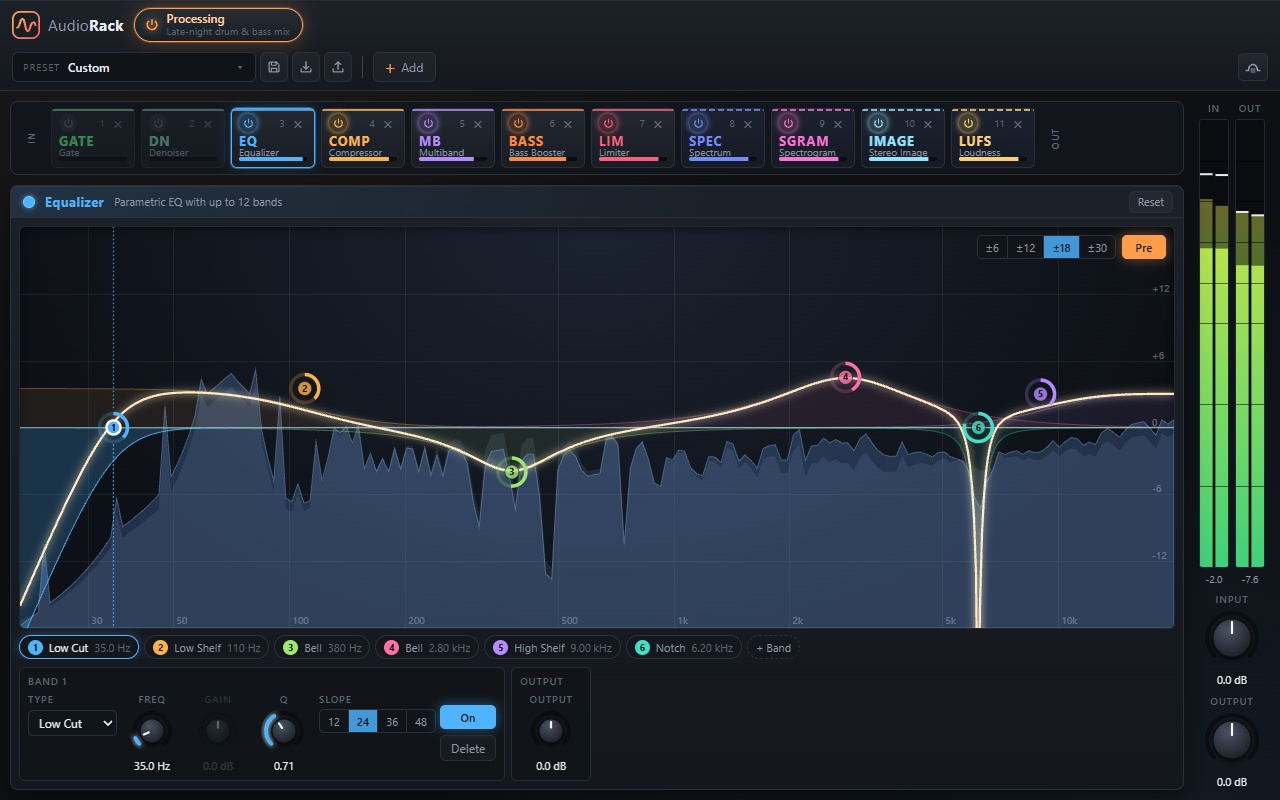
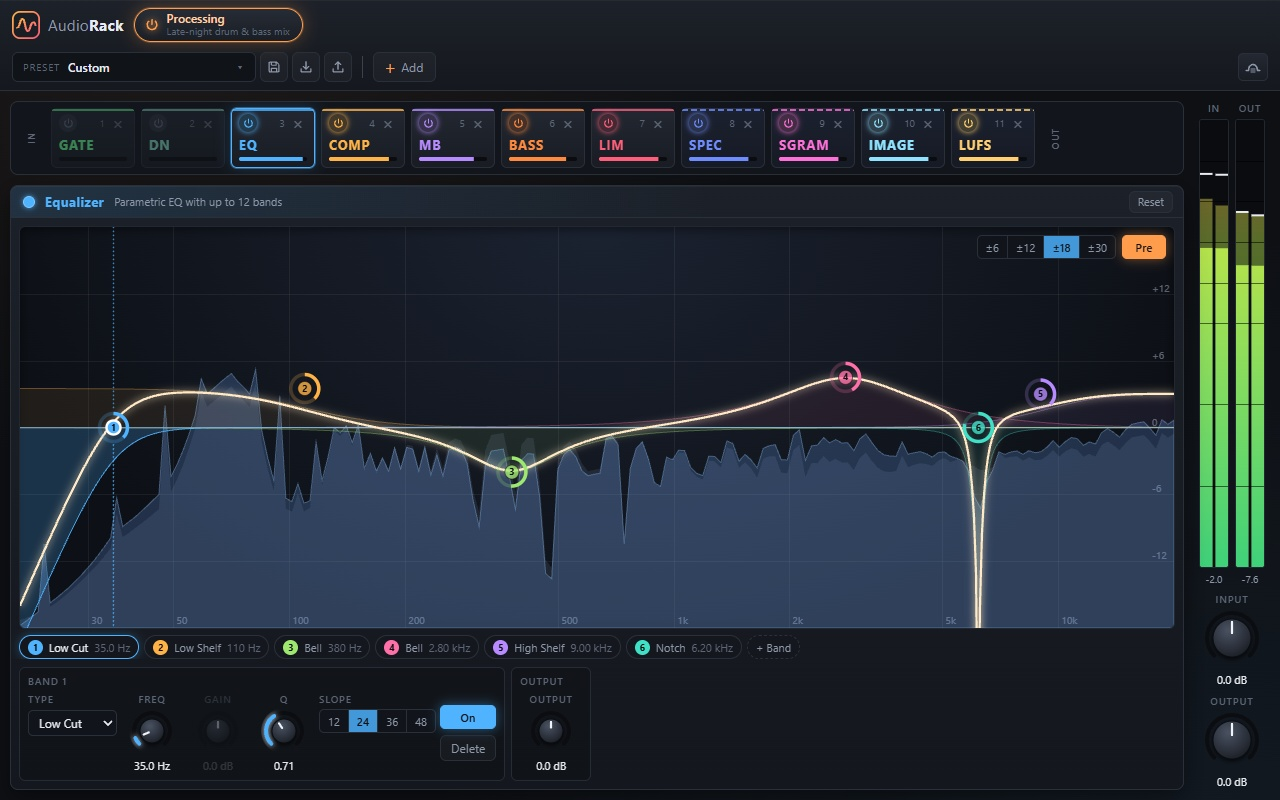
Searchable presets, slots without the full name; release 0.9.1
- The preset menu opens with a search field on top that narrows the
  factory presets by name and description and yours by name as you
  type, word by word and without regard to case or accents. Enter
  loads the first match, the down arrow moves into the list, Escape
  clears the search and then closes the menu; yours can't be reordered
  while searching
- Chain strip slots show just the short name and the level meter; the
  effect's full name is in the slot's hint
- README and store description mention the search; every screenshot
  recaptured

diff --git a/src/ui/components/PresetMenu.tsx b/src/ui/components/PresetMenu.tsx
@@ -1,4 +1,4 @@
-import { useEffect, useLayoutEffect, useRef, useState } from 'react';
+import { useEffect, useLayoutEffect, useRef, useState, type KeyboardEvent } from 'react';
 import { countEffects } from '../../shared/chain';
 import type { RackState } from '../../shared/effects';
 import { normalizeRack } from '../../shared/normalize';
@@ -7,6 +7,7 @@ import {
     MAX_PRESET_NAME,
     moveListItem,
     nextPresetName,
+    presetMatches,
     upsertPreset,
 } from '../../shared/presets';
 import {
@@ -22,10 +23,6 @@ import { FileArrowIcon, GripIcon, SaveIcon } from './Controls';
 /** A rack as exported to a file, with the side panel pins when there are any. */
 type RackFile = RackState & { pins?: string[] };
 
-/**
- * Factory presets, user presets and files. User presets and files also keep the items pinned in
- * the side panel; loading one replaces the pins, and a preset without pins clears them.
- */
 /** Drag data type of a preset being reordered in the menu. */
 const PRESET_DRAG_TYPE = 'application/x-audiorack-preset';
 
@@ -34,6 +31,11 @@ const MENU_MAX_HEIGHT = 430;
 const MENU_MIN_HEIGHT = 160;
 const MENU_MARGIN = 8;
 
+/**
+ * Factory presets, user presets and files. User presets and files also keep the items pinned in
+ * the side panel; loading one replaces the pins, and a preset without pins clears them. The
+ * menu opens with a search field on top, which narrows both lists as you type.
+ */
 export function PresetMenu({
     rack,
     pins,
@@ -48,12 +50,14 @@ export function PresetMenu({
     const [userPresets, setUserPresets] = useState<UserPreset[]>([]);
     const [error, setError] = useState<string>();
     const [naming, setNaming] = useState<string | undefined>(undefined);
+    const [query, setQuery] = useState('');
     const ref = useRef<HTMLDivElement>(null);
     const menu = useRef<HTMLDivElement>(null);
     // The preset moved with the keyboard, to give it focus again in its new place.
     const refocus = useRef<string | undefined>(undefined);
     const fileInput = useRef<HTMLInputElement>(null);
     const nameInput = useRef<HTMLInputElement>(null);
+    const searchInput = useRef<HTMLInputElement>(null);
     const nameShown = naming !== undefined;
 
     // Keep the menu within the window: in a short popup or side panel it scrolls instead of
@@ -74,11 +78,14 @@ export function PresetMenu({
 
     // Select the suggested name so typing replaces it. The field stays at the bottom of the menu;
     // focusing it must not scroll the page, which would slide the header out of view.
+    // Otherwise the menu opens ready to search.
     useEffect(() => {
         if (nameShown && open) {
             nameInput.current?.focus({ preventScroll: true });
             nameInput.current?.select();
             nameInput.current?.scrollIntoView({ block: 'nearest' });
+        } else if (open) {
+            searchInput.current?.focus({ preventScroll: true });
         }
     }, [nameShown, open]);
 
@@ -104,10 +111,14 @@ export function PresetMenu({
     // Pins of items that are no longer in the rack are left out.
     const currentPins = presetPins(rack, pins);
 
-    /** Closes the menu and drops an unfinished preset name, so saving starts afresh next time. */
+    /**
+     * Closes the menu and drops an unfinished preset name and the search, so the menu starts
+     * afresh next time.
+     */
     const close = () => {
         setOpen(false);
         setNaming(undefined);
+        setQuery('');
     };
 
     const load = (next: RackState, nextPins: string[], name: string) => {
@@ -142,6 +153,37 @@ export function PresetMenu({
         },
         PRESET_DRAG_TYPE,
     );
+
+    // The presets that match the search; yours keep their place in the full list, for reordering,
+    // which is off while searching.
+    const searching = query.trim() !== '';
+    const factory = FACTORY_PRESETS.filter((preset) =>
+        presetMatches(query, preset.name, preset.description),
+    );
+    const yours = userPresets
+        .map((preset, index) => ({ preset, index }))
+        .filter(({ preset }) => presetMatches(query, preset.name));
+
+    /** Enter loads the first match; the down arrow moves into the list. */
+    const onSearchKey = (event: KeyboardEvent<HTMLInputElement>) => {
+        if (event.key === 'Enter') {
+            event.preventDefault();
+            const [first] = factory;
+            if (first) {
+                load(first.create(), [], first.name);
+            } else if (yours[0]) {
+                const { preset } = yours[0];
+                load(preset.rack, preset.pins ?? [], preset.name);
+            }
+        } else if (event.key === 'ArrowDown') {
+            event.preventDefault();
+            menu.current?.querySelector<HTMLButtonElement>('[role="menuitem"]')?.focus();
+        } else if (event.key === 'Escape' && query) {
+            // The first Escape clears the search; the next one closes the menu.
+            event.stopPropagation();
+            setQuery('');
+        }
+    };
 
     const startSaving = () => {
         setNaming(
@@ -225,8 +267,19 @@ export function PresetMenu({
             {error && <span className="preset-error">{error}</span>}
             {open && (
                 <div className="menu preset-list" role="menu" ref={menu}>
-                    <div className="menu-heading">Factory</div>
-                    {FACTORY_PRESETS.map((preset) => (
+                    <div className="menu-search">
+                        <input
+                            ref={searchInput}
+                            type="search"
+                            placeholder="Search presets"
+                            aria-label="Search presets"
+                            value={query}
+                            onChange={(event) => setQuery(event.target.value)}
+                            onKeyDown={onSearchKey}
+                        />
+                    </div>
+                    {factory.length > 0 && <div className="menu-heading">Factory</div>}
+                    {factory.map((preset) => (
                         <button
                             type="button"
                             role="menuitem"
@@ -240,17 +293,27 @@ export function PresetMenu({
                             </span>
                         </button>
                     ))}
-                    {userPresets.length > 0 && <div className="menu-heading">Yours</div>}
-                    {userPresets.map((preset, index) => (
+                    {yours.length > 0 && <div className="menu-heading">Yours</div>}
+                    {yours.map(({ preset, index }) => (
                         <div
-                            className={`menu-item-row reorderable ${reorder.marker(index)}`}
+                            className={
+                                searching
+                                    ? 'menu-item-row'
+                                    : `menu-item-row reorderable ${reorder.marker(index)}`
+                            }
                             key={preset.name}
-                            title="Drag to reorder · Alt+↑/↓ to move"
-                            {...reorder.rowProps(index, preset.name)}
+                            {...(searching
+                                ? {}
+                                : {
+                                      title: 'Drag to reorder · Alt+↑/↓ to move',
+                                      ...reorder.rowProps(index, preset.name),
+                                  })}
                         >
-                            <span className="drag-grip">
-                                <GripIcon />
-                            </span>
+                            {!searching && (
+                                <span className="drag-grip">
+                                    <GripIcon />
+                                </span>
+                            )}
                             <button
                                 type="button"
                                 role="menuitem"
@@ -258,7 +321,7 @@ export function PresetMenu({
                                 data-preset={preset.name}
                                 onClick={() => load(preset.rack, preset.pins ?? [], preset.name)}
                                 onKeyDown={(event) => {
-                                    if (reorder.keyMove(event, index)) {
+                                    if (!searching && reorder.keyMove(event, index)) {
                                         refocus.current = preset.name;
                                     }
                                 }}
@@ -280,6 +343,9 @@ export function PresetMenu({
                             </button>
                         </div>
                     ))}
+                    {factory.length === 0 && yours.length === 0 && (
+                        <div className="menu-empty">No presets match “{query.trim()}”.</div>
+                    )}
                     {naming !== undefined && (
                         <form
                             className="menu-save"

diff --git a/tests/presets.test.ts b/tests/presets.test.ts
@@ -1,5 +1,11 @@
 import { describe, expect, it } from 'vitest';
-import { MAX_PRESET_NAME, moveListItem, nextPresetName, upsertPreset } from '../src/shared/presets';
+import {
+    MAX_PRESET_NAME,
+    moveListItem,
+    nextPresetName,
+    presetMatches,
+    upsertPreset,
+} from '../src/shared/presets';
 
 describe('preset naming', () => {
     it('counts "Preset" names when the rack did not come from a preset', () => {
@@ -50,5 +56,23 @@ describe('preset order', () => {
             'Three',
             'Four',
         ]);
+    });
+});
+
+describe('preset search', () => {
+    it('matches every word typed, in any order, in the name or the description', () => {
+        expect(presetMatches('voice', 'Voice Clarity', 'Presence for speech')).toBe(true);
+        expect(presetMatches('speech clar', 'Voice Clarity', 'Presence for speech')).toBe(true);
+        expect(presetMatches('voice bass', 'Voice Clarity', 'Presence for speech')).toBe(false);
+    });
+
+    it('ignores case and accents', () => {
+        expect(presetMatches('CAFE', 'Café night')).toBe(true);
+        expect(presetMatches('élan', 'Elan')).toBe(true);
+    });
+
+    it('matches everything when nothing is typed', () => {
+        expect(presetMatches('', 'Anything')).toBe(true);
+        expect(presetMatches('   ', 'Anything')).toBe(true);
     });
 });

diff --git a/src/ui/styles.css b/src/ui/styles.css
@@ -806,6 +806,32 @@ button:disabled {
 }
 
 /* Pinned to the bottom of the menu, so the name field is in view however long the list is. */
+/* The search field stays at the top of the preset menu while it scrolls. */
+.menu-search {
+    position: sticky;
+    top: -6px;
+    z-index: 1;
+    padding: 6px 4px 8px;
+    margin: -6px 0 2px;
+    border-bottom: 1px solid var(--border);
+    background: #1a1e26;
+}
+
+.menu-search input {
+    width: 100%;
+    height: 26px;
+    padding: 0 8px;
+    border: 1px solid var(--border-strong);
+    border-radius: 5px;
+    background: #101318;
+}
+
+.menu-empty {
+    padding: 10px 8px;
+    font-size: 12px;
+    color: var(--text-faint);
+}
+
 .menu-save {
     position: sticky;
     bottom: -6px;
@@ -1057,15 +1083,6 @@ button:disabled {
     font-weight: 700;
     letter-spacing: 0.06em;
     color: var(--slot-color);
-}
-
-.slot-label {
-    font-size: 10px;
-    color: var(--text-dim);
-    margin-top: -4px;
-    overflow: hidden;
-    text-overflow: ellipsis;
-    white-space: nowrap;
 }
 
 .slot-activity {

diff --git a/src/shared/presets.ts b/src/shared/presets.ts
@@ -168,6 +168,24 @@ export const FACTORY_PRESETS: FactoryPreset[] = [
     },
 ];
 
+/** Text compared without regard to case or accents. */
+function searchable(text: string): string {
+    return text.normalize('NFD').replace(/\p{M}/gu, '').toLowerCase();
+}
+
+/**
+ * Whether a preset matches what was typed to search for it: every word typed appears somewhere
+ * in its texts, such as its name and description, in any order and without regard to case or
+ * accents. An empty search matches every preset.
+ */
+export function presetMatches(query: string, ...texts: string[]): boolean {
+    const haystack = searchable(texts.join(' '));
+    return searchable(query)
+        .split(/\s+/)
+        .filter(Boolean)
+        .every((word) => haystack.includes(word));
+}
+
 /**
  * A free name for saving the rack as a preset: `base` with the next unused counter when the
  * rack came from a preset (a counter it already ends with is replaced), otherwise "Preset" and

diff --git a/src/ui/components/ChainStrip.tsx b/src/ui/components/ChainStrip.tsx
@@ -184,7 +184,6 @@ function EffectSlot({
                         />
                     </div>
                     <span className="slot-name">{info.short}</span>
-                    <span className="slot-label">{info.label}</span>
                 </>
             )}
             <SlotMeter effect={effect} />

diff --git a/README.md b/README.md
@@ -39,13 +39,14 @@ blocks with absolute and relative gates, short-term values for the range). Integ
 range and the maxima cover everything played through the rack since the last **Reset**; the
 history shows the last minute against a target (−14, −16, −23 or −24 LUFS, or any value).
 
-The chain can be reordered by dragging slots, each effect can be bypassed (with a short
-crossfade), and the whole rack can be bypassed for comparison. Each slot has a small meter of
-its own output level (−60 to 0 dBFS) in the effect's color; a bypassed effect's meter stays
-empty. Every display shows its effect's own signal, so
-the rack's input and output gain do not change them. Factory presets are included;
-your own presets can be saved, exported and imported as JSON, and put in any order by dragging
-them in the preset menu (or with Alt+↑/↓). Saving over a preset keeps its place.
+The chain can be reordered by dragging slots, each effect can be bypassed (with a short crossfade),
+and the whole rack can be bypassed for comparison. Each slot has a small meter of its own output
+level (−60 to 0 dBFS) in the effect's color; a bypassed effect's meter stays empty. Every display
+shows its effect's own signal, so the rack's input and output gain do not change them. Factory
+presets are included; your own presets can be saved, exported and imported as JSON, and put in any
+order by dragging them in the preset menu (or with Alt+↑/↓). Saving over a preset keeps its place.
+The menu opens with a search field that narrows the presets by name and description as you type;
+Enter loads the first match.
 
 The header has two rows. The first holds the **Process tab** button with the tab's title, the
 **This tab / All tabs** switch and the window buttons (dock in the side panel, open in a larger
